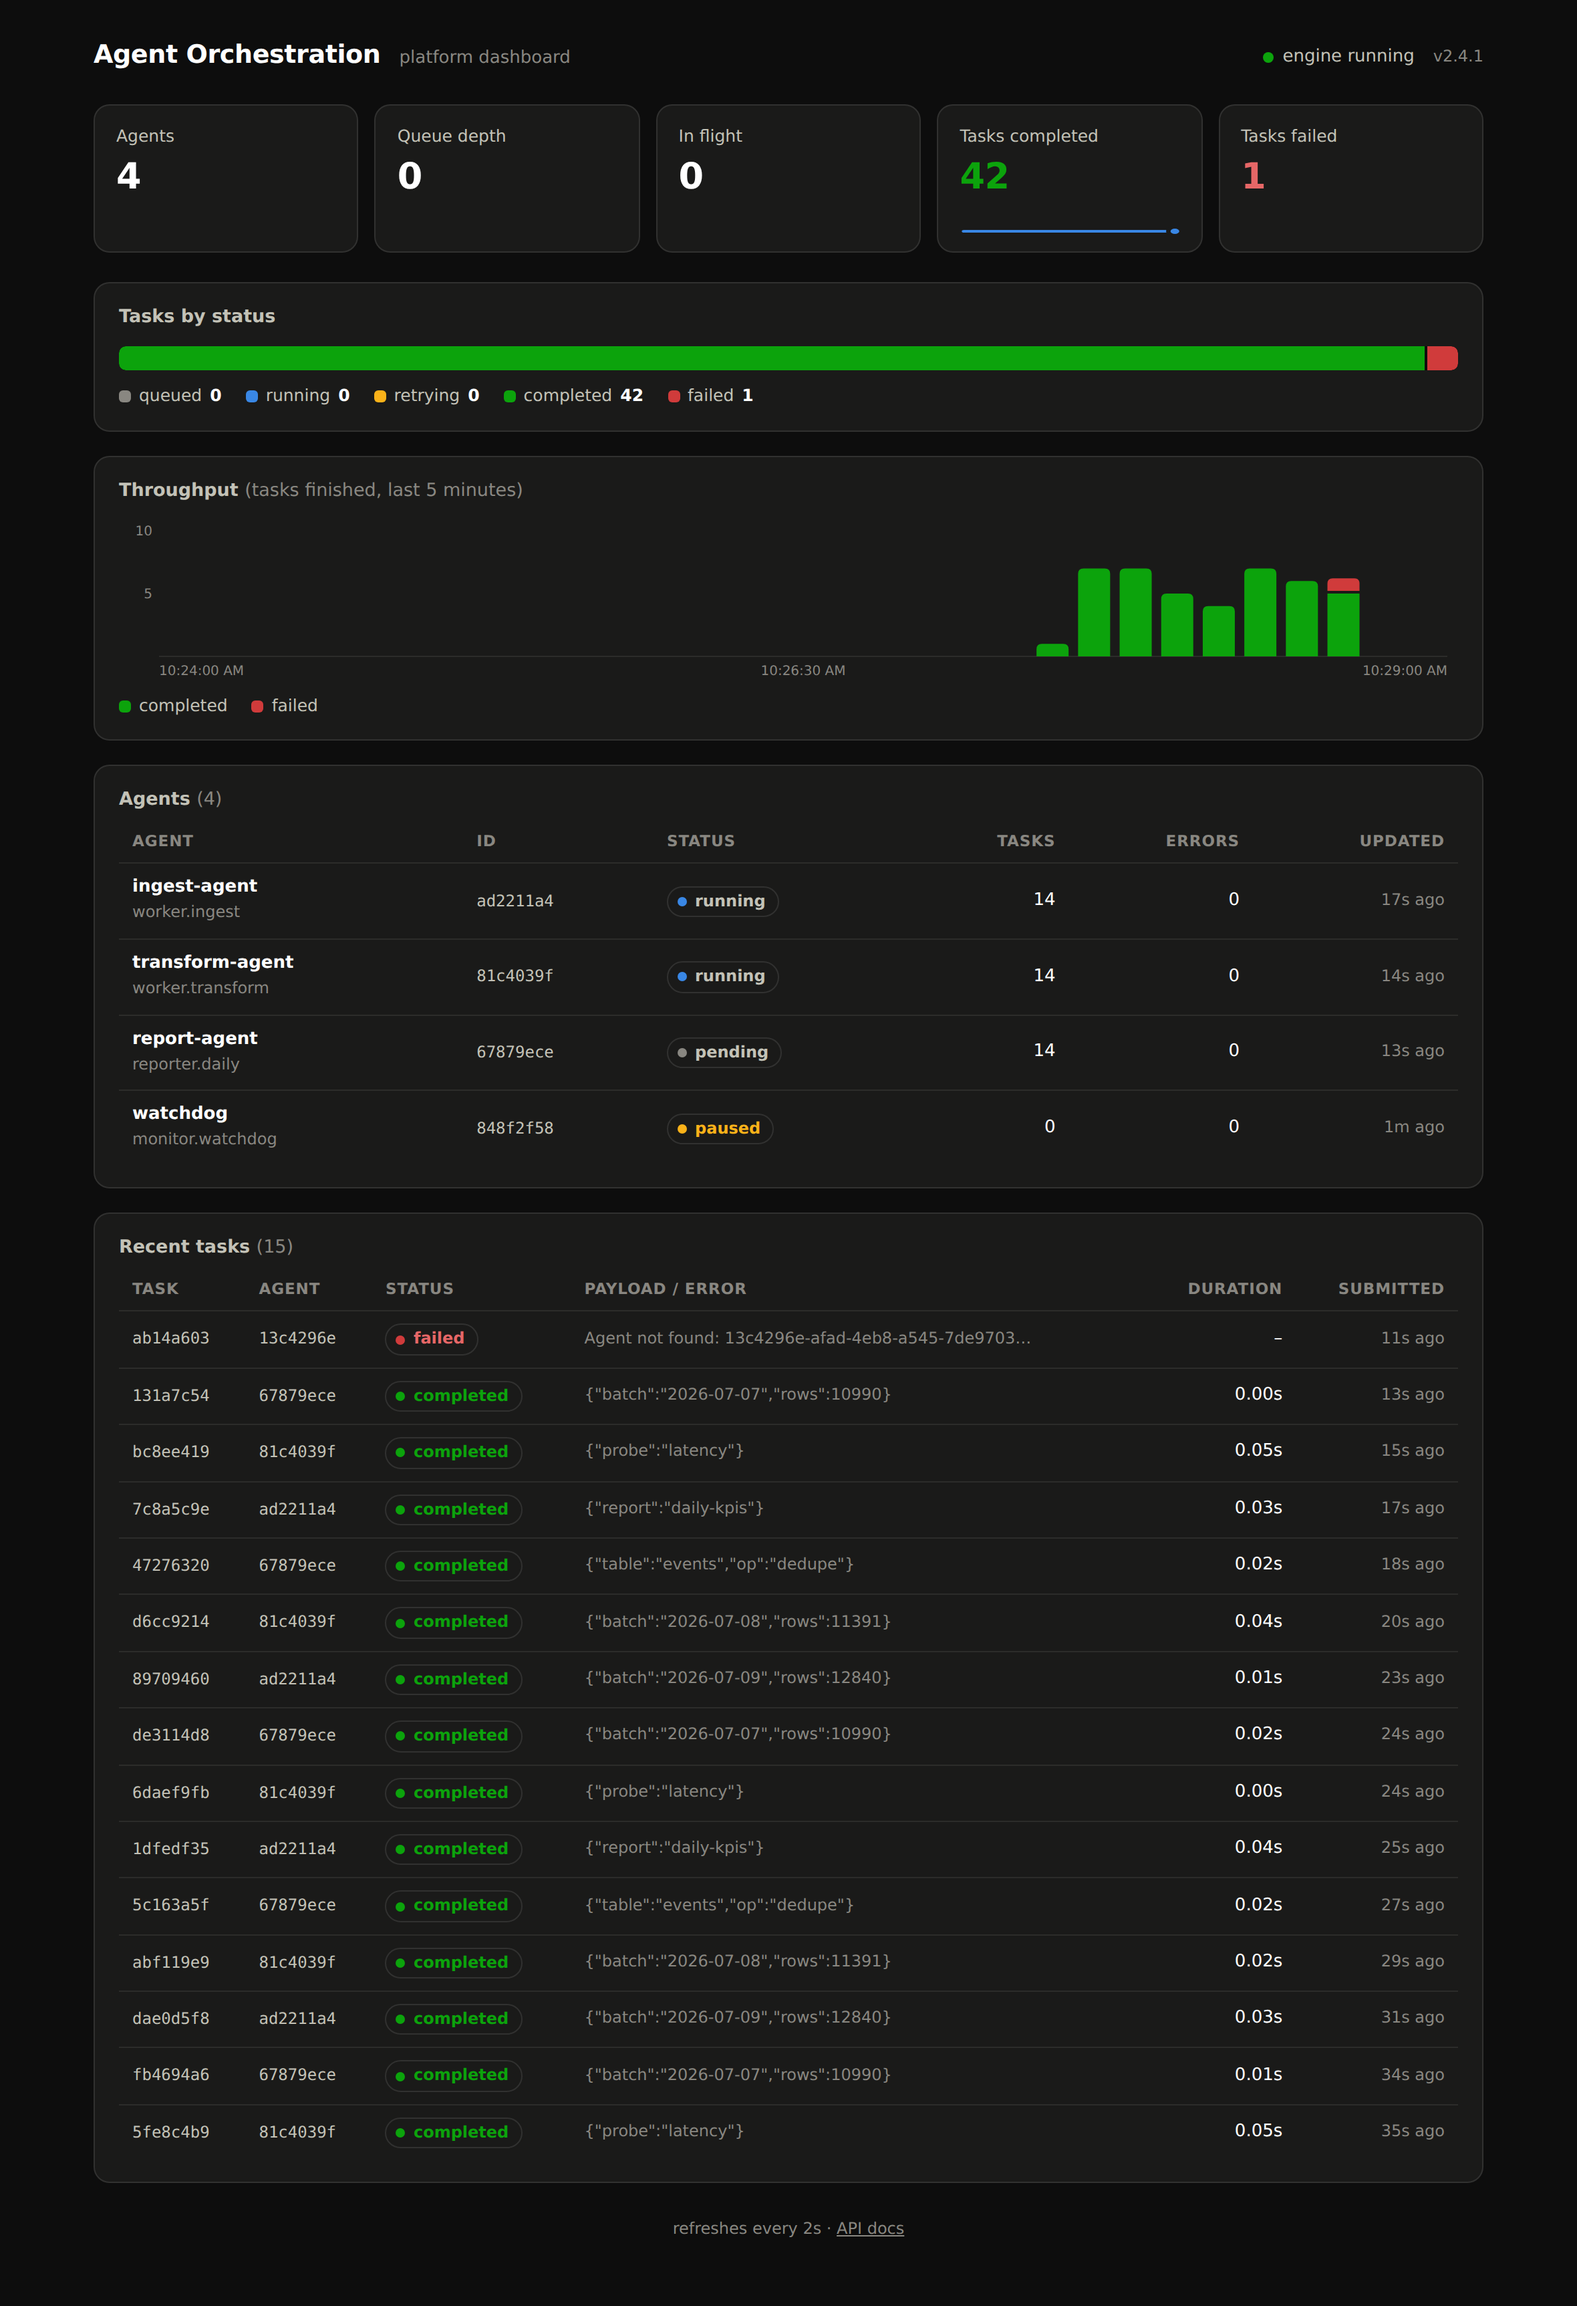
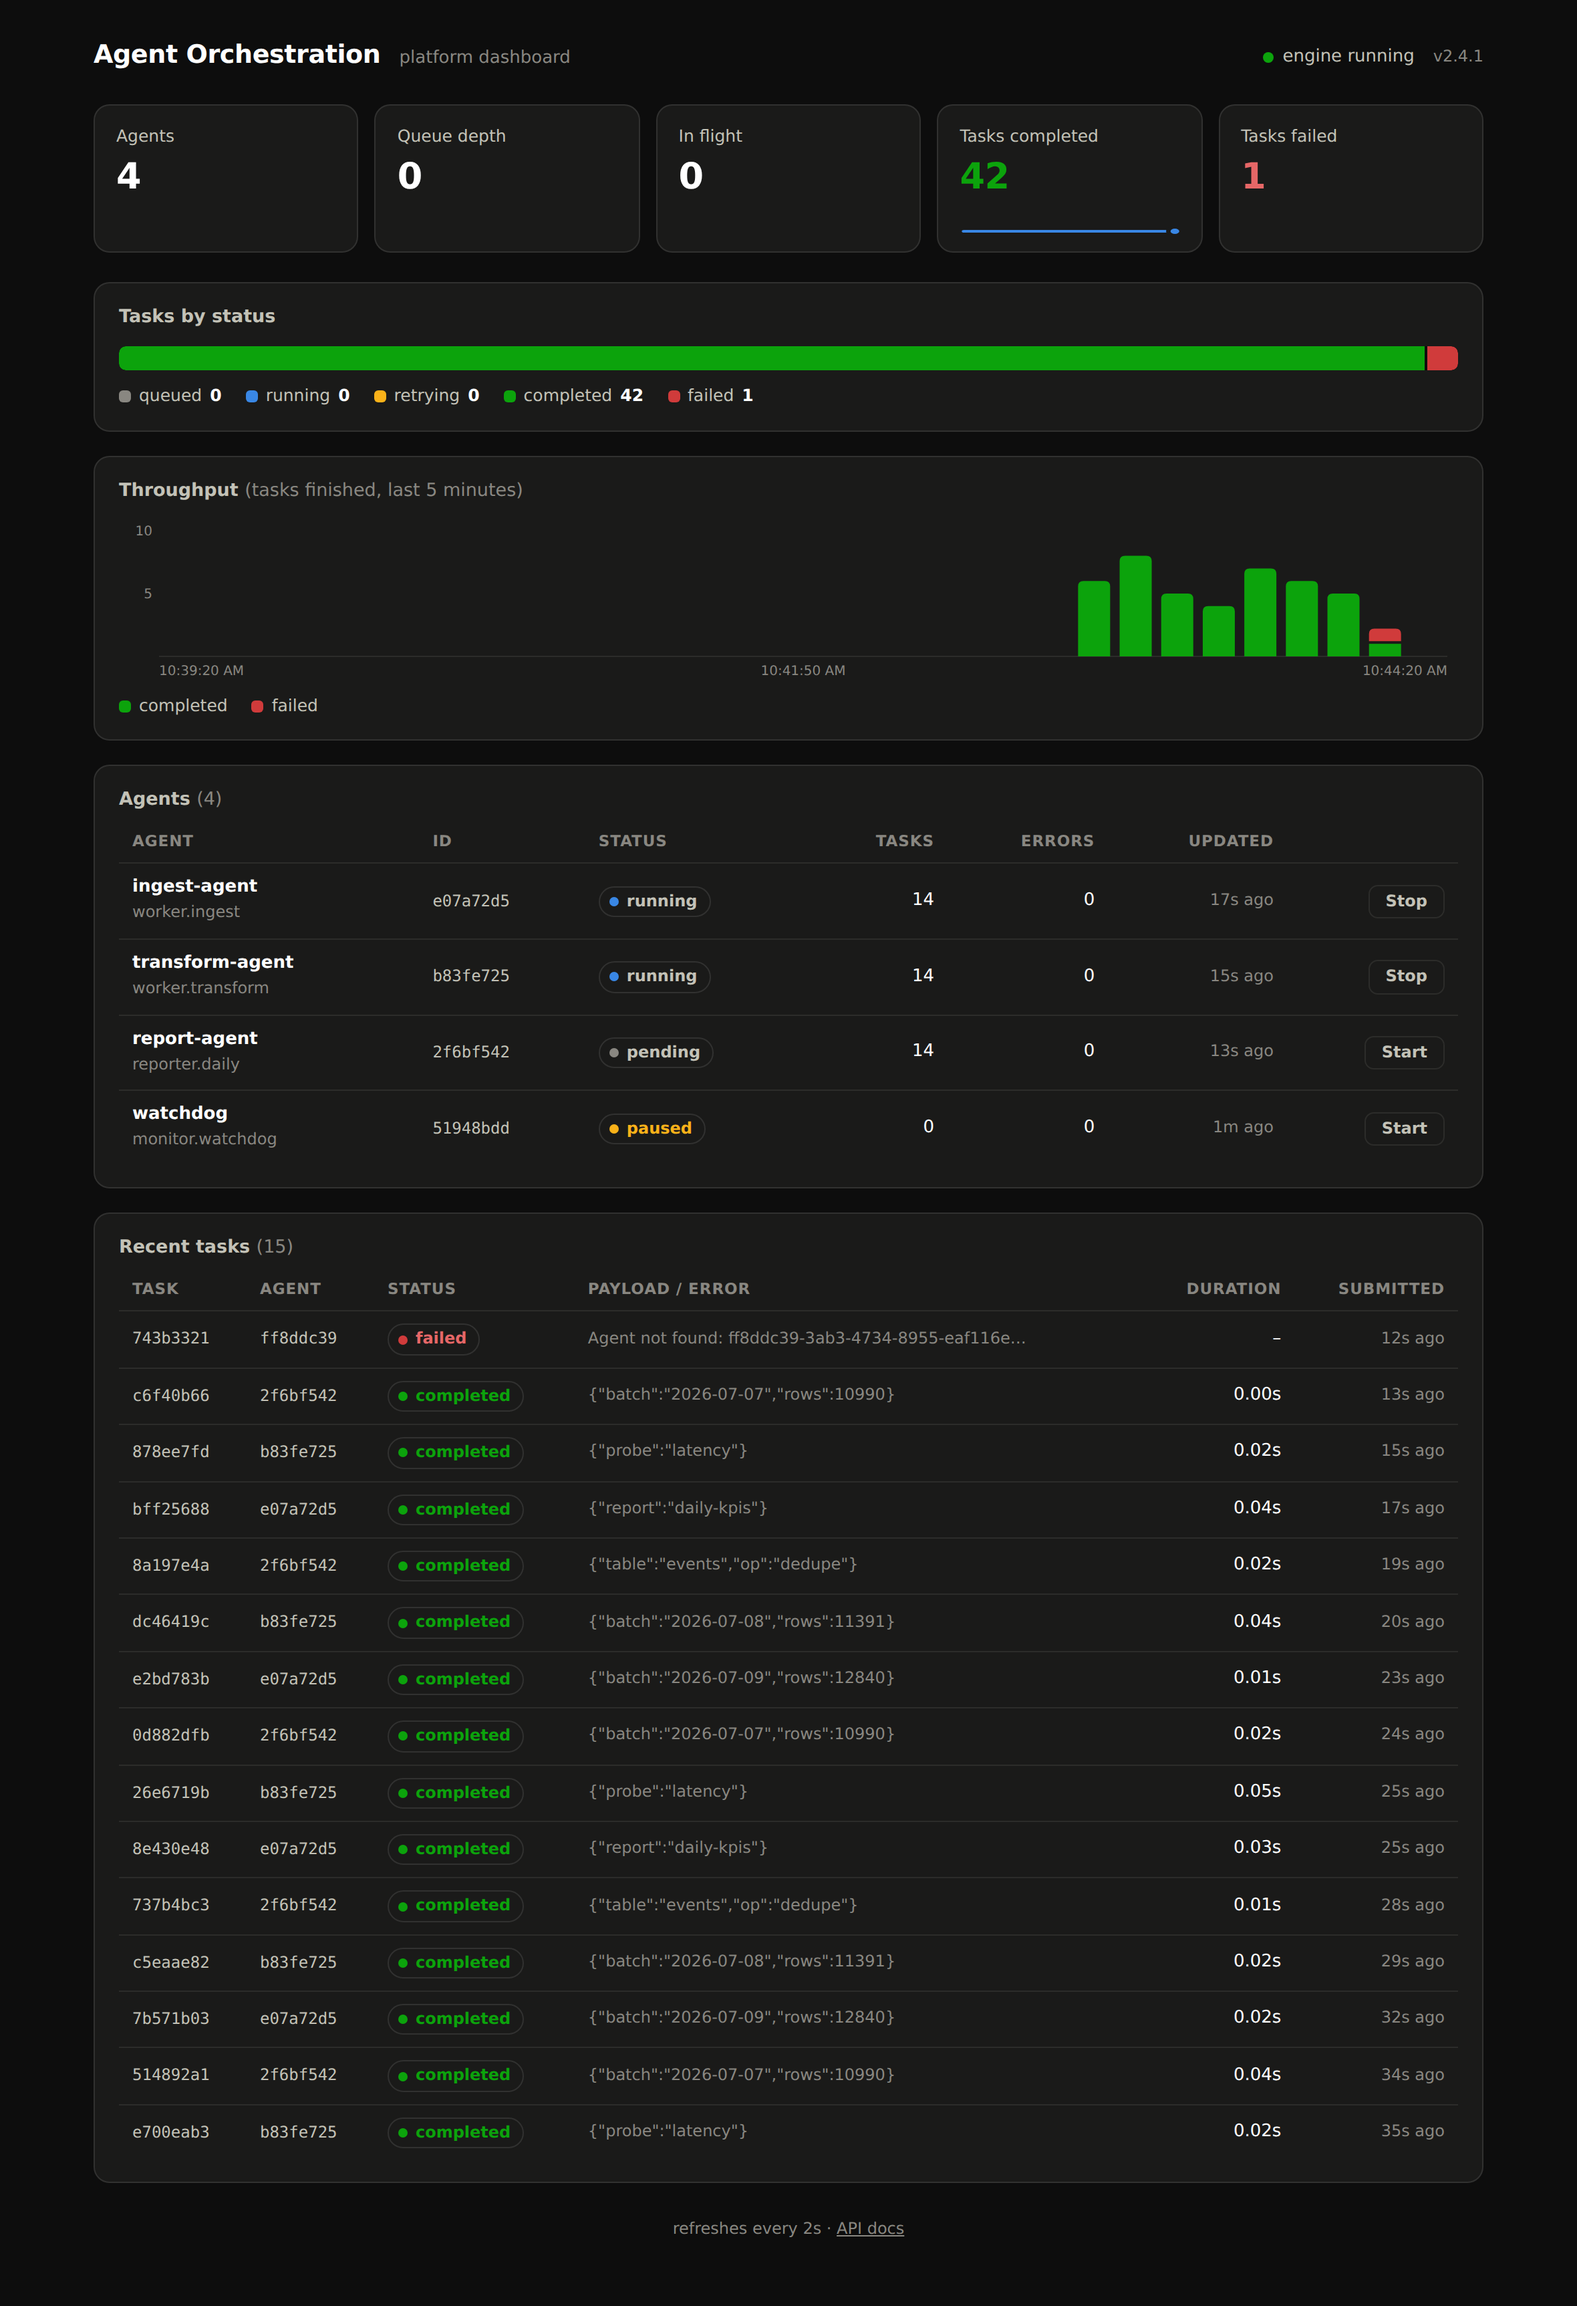
Add dashboard agent controls, task detail modal, and README demo GIF
- Agents table gains Start/Stop actions per row (ghost buttons, driven by the
  existing /agents/{id}/start|stop endpoints with the stored API key)
- Clicking a task opens a detail modal: status pill, full agent/task IDs,
  submitted/completed timestamps, duration, and pretty-printed payload,
  result, and error JSON; closes via ×, backdrop click, or Escape
- README dashboard section now embeds an animated demo (tasks streaming in,
  an agent being started, the task modal) inside a collapsible details block,
  alongside refreshed light/dark screenshots showing the new controls

Verified in Chromium: stop flips a running agent to paused and back, the
modal opens with correct content and closes on Escape. 49 tests passing;
flake8 clean.

Claude-Session: https://claude.ai/code/session_01NYuAaC7ACra4U68YzZcwMe

diff --git a/src/api/dashboard.html b/src/api/dashboard.html
@@ -161,6 +161,48 @@
   .pill.terminated .dot { background: var(--status-serious); }
   .pill.terminated { color: var(--serious-text); }
 
+  /* ---------- row action buttons ---------- */
+  .btn {
+    padding: 3px 12px; font: inherit; font-size: 12px; font-weight: 600; cursor: pointer;
+    color: var(--ink-2); background: transparent;
+    border: 1px solid var(--grid); border-radius: 7px;
+    transition: background 0.12s, color 0.12s;
+  }
+  .btn:hover { background: color-mix(in srgb, var(--grid) 40%, transparent); color: var(--ink); }
+  .btn:disabled { opacity: 0.45; cursor: default; }
+
+  /* ---------- task detail modal ---------- */
+  .modal-backdrop {
+    position: fixed; inset: 0; display: none; z-index: 10;
+    background: rgba(0,0,0,0.4);
+    align-items: flex-start; justify-content: center; padding: 8vh 16px;
+  }
+  .modal-backdrop.show { display: flex; }
+  .modal {
+    background: var(--surface); border: 1px solid var(--border); border-radius: 14px;
+    width: 100%; max-width: 640px; max-height: 80vh; overflow-y: auto;
+    padding: 18px 20px 20px; box-shadow: 0 18px 50px rgba(0,0,0,0.25);
+  }
+  .modal header { display: flex; align-items: center; gap: 10px; margin-bottom: 14px; }
+  .modal header h3 { font-size: 14.5px; font-weight: 650; }
+  .modal header .mono-id { font-family: ui-monospace, "SF Mono", Menlo, Consolas, monospace; font-size: 12px; color: var(--muted); }
+  .modal header button {
+    margin-left: auto; border: 0; background: transparent; cursor: pointer;
+    color: var(--muted); font-size: 19px; line-height: 1; padding: 3px 7px; border-radius: 7px;
+  }
+  .modal header button:hover { color: var(--ink); background: color-mix(in srgb, var(--grid) 40%, transparent); }
+  .kv { display: grid; grid-template-columns: 110px 1fr; gap: 7px 14px; font-size: 13px; margin-bottom: 14px; }
+  .kv dt { color: var(--muted); }
+  .kv dd { color: var(--ink); overflow-wrap: anywhere; }
+  .kv dd.mono { font-family: ui-monospace, "SF Mono", Menlo, Consolas, monospace; font-size: 12px; }
+  .modal h4 { font-size: 11.5px; font-weight: 600; letter-spacing: 0.04em; text-transform: uppercase; color: var(--muted); margin: 14px 0 6px; }
+  .modal pre {
+    background: var(--page); border: 1px solid var(--grid); border-radius: 9px;
+    padding: 10px 12px; font-size: 12px; line-height: 1.5; overflow-x: auto;
+    font-family: ui-monospace, "SF Mono", Menlo, Consolas, monospace; color: var(--ink-2);
+  }
+  tr[data-task] { cursor: pointer; }
+
   footer { color: var(--muted); font-size: 12px; text-align: center; margin-top: 26px; }
   footer a { color: inherit; }
 </style>
@@ -224,6 +266,17 @@
   <footer>refreshes every 2s · <a href="/api/docs">API docs</a></footer>
 </div>
 
+<div class="modal-backdrop" id="modal-backdrop">
+  <div class="modal" role="dialog" aria-modal="true" aria-labelledby="modal-title">
+    <header>
+      <h3 id="modal-title">Task</h3>
+      <span class="mono-id" id="modal-id"></span>
+      <button id="modal-close" aria-label="Close">×</button>
+    </header>
+    <div id="modal-body"></div>
+  </div>
+</div>
+
 <script>
 (() => {
   "use strict";
@@ -252,8 +305,8 @@
     tick();
   });
 
-  async function api(path) {
-    const resp = await fetch(path, {headers: headers()});
+  async function api(path, method = "GET") {
+    const resp = await fetch(path, {method, headers: headers()});
     if (resp.status === 401) { $("auth-banner").classList.add("show"); throw new Error("unauthorized"); }
     if (!resp.ok) throw new Error("HTTP " + resp.status);
     return resp.json();
@@ -425,7 +478,12 @@
       $("agents-body").innerHTML = `<div class="empty">No agents registered — deploy one with <code>ao deploy</code></div>`;
       return;
     }
-    const rows = agents.map(a => `
+    const rows = agents.map(a => {
+      const running = a.status === "running";
+      const action = running
+        ? `<button class="btn" data-action="stop" data-id="${esc(a.id)}">Stop</button>`
+        : `<button class="btn" data-action="start" data-id="${esc(a.id)}">Start</button>`;
+      return `
       <tr>
         <td><strong>${esc(a.name)}</strong><br><span class="sub">${esc(a.type)}</span></td>
         <td class="mono">${esc(a.id.slice(0, 8))}</td>
@@ -433,10 +491,12 @@
         <td class="num">${a.metrics.tasks_completed}</td>
         <td class="num">${a.metrics.errors}</td>
         <td class="num"><span class="sub">${relTime(a.updated_at)}</span></td>
-      </tr>`).join("");
+        <td class="num">${action}</td>
+      </tr>`;
+    }).join("");
     $("agents-body").innerHTML =
       `<table><thead><tr><th>Agent</th><th>ID</th><th>Status</th>
-       <th class="num">Tasks</th><th class="num">Errors</th><th class="num">Updated</th></tr></thead>
+       <th class="num">Tasks</th><th class="num">Errors</th><th class="num">Updated</th><th class="num"></th></tr></thead>
        <tbody>${rows}</tbody></table>`;
   }
 
@@ -451,7 +511,7 @@
       const raw = t.error ? String(t.error) : JSON.stringify(t.payload || {});
       const short = raw.length > 48 ? raw.slice(0, 48) + "…" : raw;
       return `
-      <tr>
+      <tr data-task="${esc(t.id)}">
         <td class="mono">${esc(t.id.slice(0, 8))}</td>
         <td class="mono">${esc((t.target_agent || "").slice(0, 8))}</td>
         <td>${pill(t.status)}</td>
@@ -465,6 +525,57 @@
        <th class="num">Duration</th><th class="num">Submitted</th></tr></thead>
        <tbody>${rows}</tbody></table>`;
   }
+
+  // ---- agent start/stop controls ----
+  $("agents-body").addEventListener("click", async (ev) => {
+    const btn = ev.target.closest("button[data-action]");
+    if (!btn) return;
+    btn.disabled = true;
+    try {
+      await api(`/api/v2/agents/${btn.dataset.id}/${btn.dataset.action}`, "POST");
+      await tick();
+    } catch (e) { btn.disabled = false; }
+  });
+
+  // ---- task detail modal ----
+  const backdrop = $("modal-backdrop");
+  function fmtTime(ts) {
+    return ts ? new Date(ts * 1000).toLocaleString() : "–";
+  }
+  function closeModal() { backdrop.classList.remove("show"); }
+  $("modal-close").addEventListener("click", closeModal);
+  backdrop.addEventListener("click", (ev) => { if (ev.target === backdrop) closeModal(); });
+  document.addEventListener("keydown", (ev) => { if (ev.key === "Escape") closeModal(); });
+
+  async function openTask(taskId) {
+    let task;
+    try { task = await api(`/api/v2/tasks/${taskId}`); } catch (e) { return; }
+    $("modal-id").textContent = task.id;
+    const dur = task.completed_at ? (task.completed_at - task.submitted_at).toFixed(3) + "s" : "–";
+    let html = `
+      <dl class="kv">
+        <dt>Status</dt><dd>${pill(task.status)}</dd>
+        <dt>Agent</dt><dd class="mono">${esc(task.target_agent || "–")}</dd>
+        <dt>Submitted</dt><dd>${fmtTime(task.submitted_at)}</dd>
+        <dt>Completed</dt><dd>${fmtTime(task.completed_at)}</dd>
+        <dt>Duration</dt><dd>${dur}</dd>
+      </dl>
+      <h4>Payload</h4>
+      <pre>${esc(JSON.stringify(task.payload || {}, null, 2))}</pre>`;
+    if (task.result !== null && task.result !== undefined) {
+      html += `<h4>Result</h4><pre>${esc(JSON.stringify(task.result, null, 2))}</pre>`;
+    }
+    if (task.error) {
+      html += `<h4>Error</h4><pre>${esc(task.error)}</pre>`;
+    }
+    $("modal-body").innerHTML = html;
+    backdrop.classList.add("show");
+  }
+
+  $("tasks-body").addEventListener("click", (ev) => {
+    const row = ev.target.closest("tr[data-task]");
+    if (row) openTask(row.dataset.task);
+  });
 
   async function tick() {
     try {

diff --git a/README.md b/README.md
@@ -20,12 +20,18 @@ A distributed platform for orchestrating autonomous AI agents in enterprise envi
 
 ## Dashboard
 
-The built-in dashboard is served at `/` — live agent status, task queue, and platform metrics, refreshed every 2 seconds. Light and dark themes follow your system.
+The built-in dashboard is served at `/` — live agent status, throughput, task queue, and platform metrics, refreshed every 2 seconds. Agents can be started and stopped from the table, and clicking a task opens its full payload, result, and timing. Light and dark themes follow your system.
 
 <picture>
   <source media="(prefers-color-scheme: dark)" srcset="docs/assets/dashboard-dark.png">
-  <img src="docs/assets/dashboard-light.png" alt="Agent Orchestration dashboard showing stat tiles, task status bar, agents table, and recent tasks" width="920">
+  <img src="docs/assets/dashboard-light.png" alt="Agent Orchestration dashboard showing stat tiles, throughput chart, agents table with start/stop controls, and recent tasks" width="920">
 </picture>
+
+<details>
+<summary><strong>▶ Watch the live demo</strong> (tasks streaming in, agent controls, task detail modal)</summary>
+<br>
+<img src="docs/assets/dashboard-demo.gif" alt="Animated demo of the dashboard: stat tiles and throughput chart updating live, an agent being started, and a task detail modal opening" width="920">
+</details>
 
 ## Architecture
 
